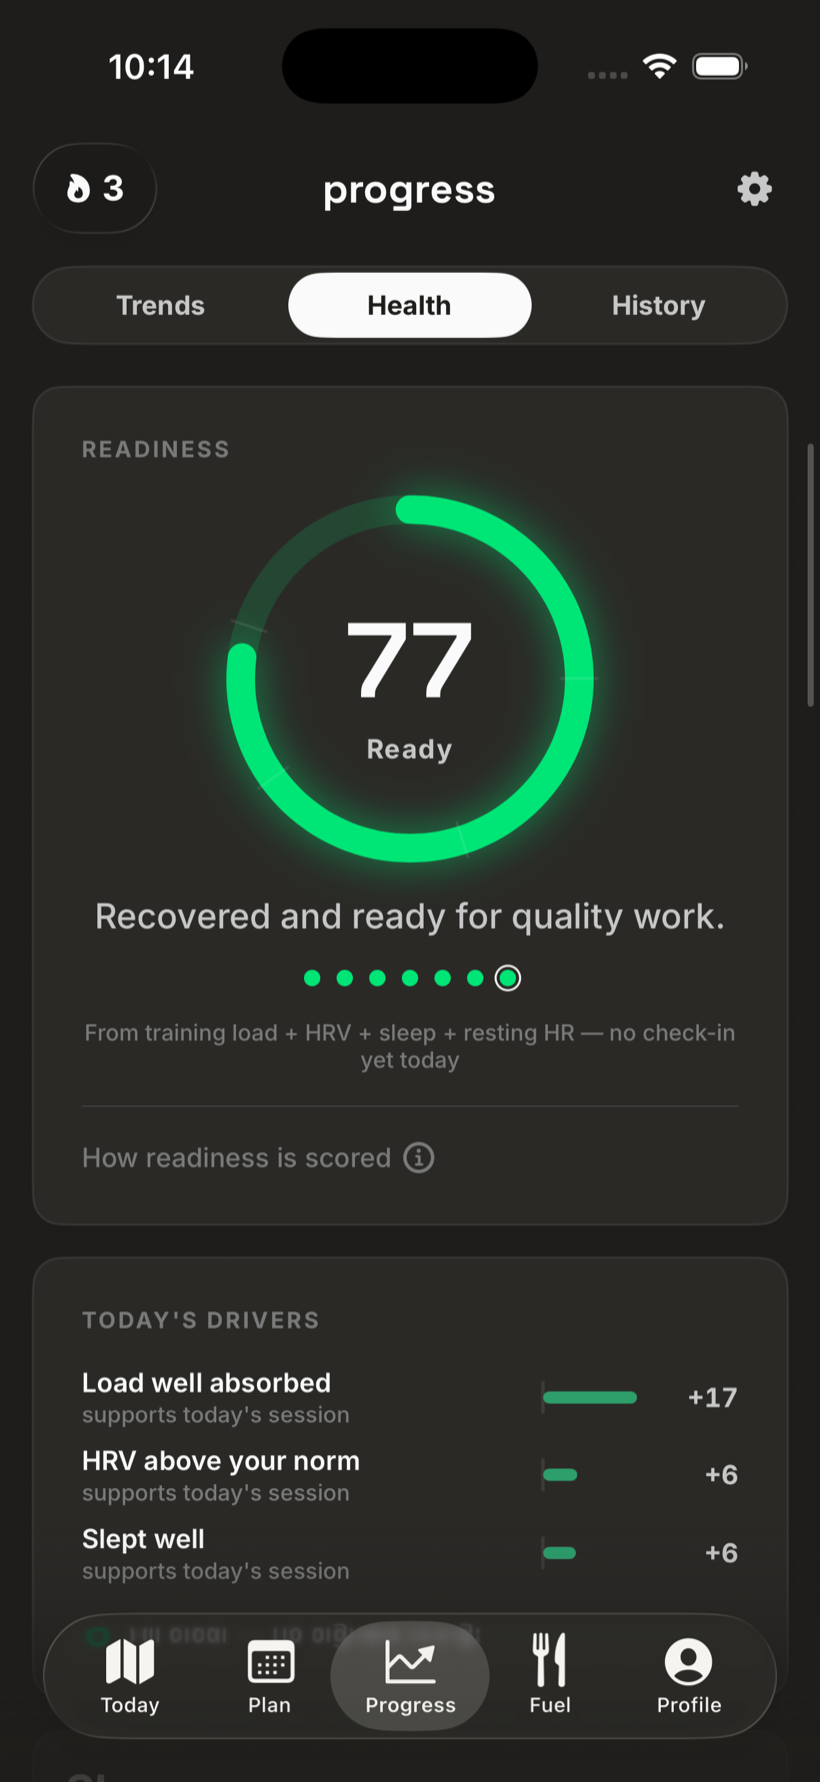
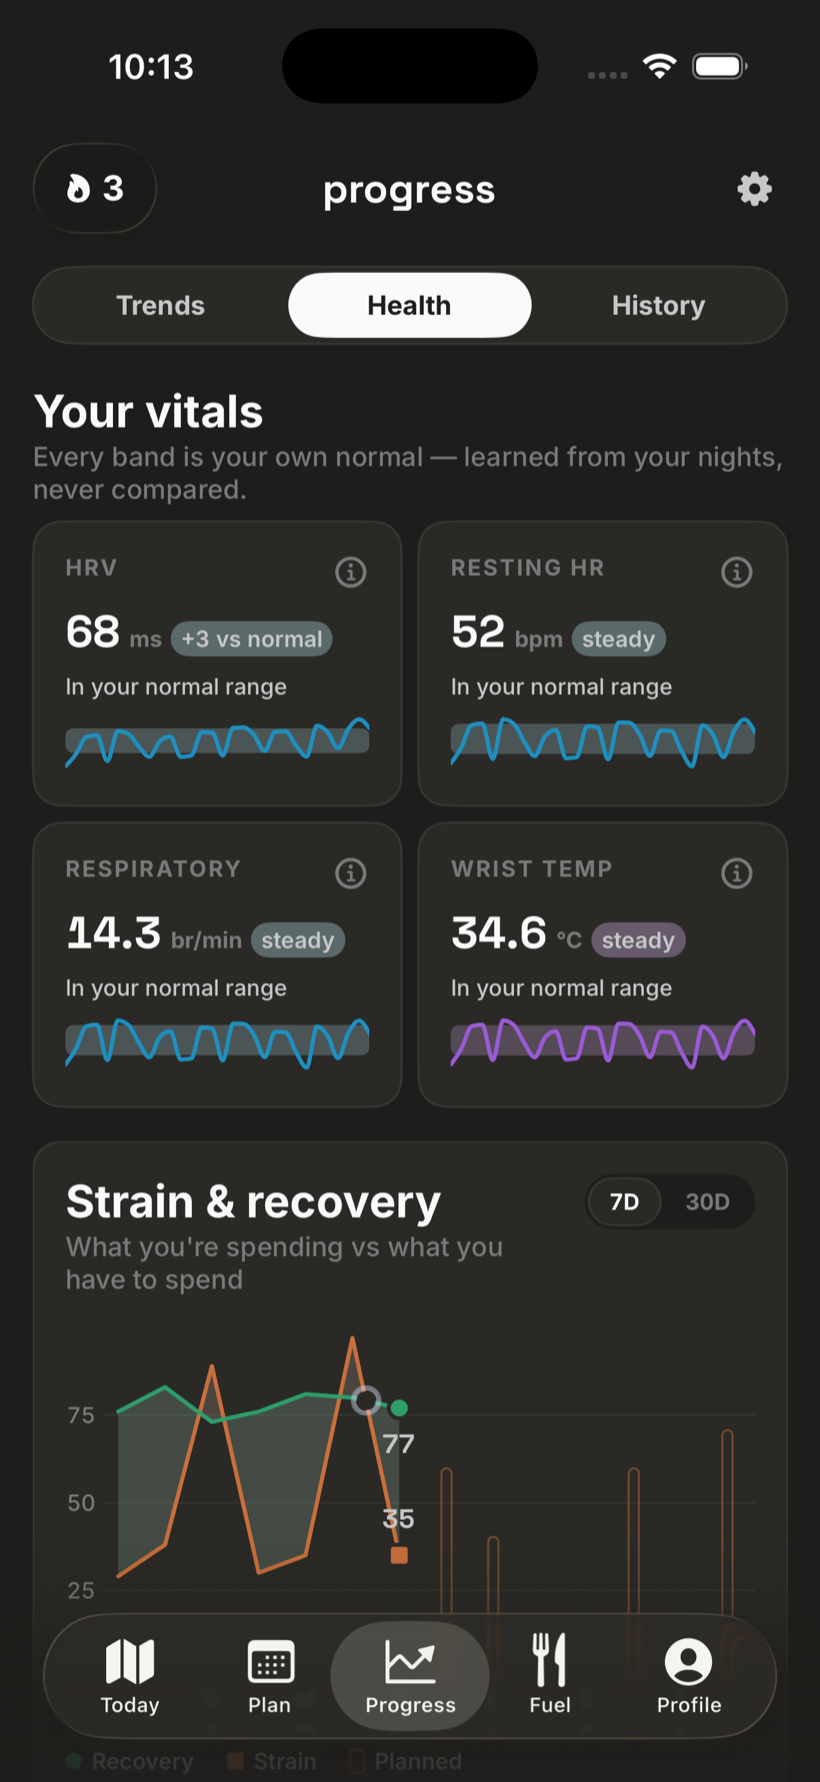
Website: add Fuel deep-dive + Vitals for "body measured"
- New "Fuel, not a diet" deep-dive section (fuel.png) showcasing the
  plain-language meal logging + carbs/protein/fat/sodium rings — floors
  to hit, never ceilings, RED-S-aware.
- Swap the "Your body, measured" shot to the Vitals screen (HRV / resting
  HR / respiratory / wrist temp), a tighter match to that section's copy.
- Regenerated blur placeholders.

diff --git a/website/components/blur.ts b/website/components/blur.ts
@@ -3,6 +3,7 @@
 // Regenerate when shots change (see the PIL snippet in the momentum-website memory).
 export const shotBlur: Record<string, string> = {
[5 lines of base64/hex data omitted]
@@ -10,7 +11,7 @@ export const shotBlur: Record<string, string> = {
[8 lines of base64/hex data omitted]

diff --git a/website/app/page.tsx b/website/app/page.tsx
@@ -262,7 +262,7 @@ function DeepDives() {
 
         <div className="duo flip">
           <div className="duo-media">
-            <PhoneFrame small src="/shots/progress.png" alt="Progress trends: estimated VO2 max gauge and personalized heart-rate zones" />
+            <PhoneFrame small src="/shots/progress.png" alt="Your vitals: HRV, resting heart rate, respiratory rate, and wrist temperature, each within your personal normal range" />
           </div>
           <div>
             <p className="eyebrow">Your body, measured</p>
@@ -314,6 +314,35 @@ function DeepDives() {
           </div>
           <div className="duo-media">
             <PhoneFrame small src="/shots/heatmap-dark.png" alt="Personal heatmap tracing running routes across a dark city map" />
+          </div>
+        </div>
+
+        <div className="duo flip">
+          <div className="duo-media">
+            <PhoneFrame small src="/shots/fuel.png" alt="Fuel dashboard: daily calories with carbs, protein, fat, and sodium rings and a plain-language meal log" />
+          </div>
+          <div>
+            <p className="eyebrow">Fuel, not a diet</p>
+            <h3>Eat to train — floors to hit, never numbers to fear.</h3>
+            <p>
+              Tell momentum what you ate in a sentence and it reads the carbs, protein, fat, and
+              sodium — then shows what today&apos;s training actually asks for. More carbs on a
+              long-run day, always fueling, never dieting.
+            </p>
+            <ul>
+              <li>
+                <span className="tick" aria-hidden />
+                Log a meal in plain words — no barcodes, no weighing
+              </li>
+              <li>
+                <span className="tick" aria-hidden />
+                Targets that move with your plan, not a one-size calorie cap
+              </li>
+              <li>
+                <span className="tick" aria-hidden />
+                Floors to hit, never ceilings to fear — with a RED-S-aware guard
+              </li>
+            </ul>
           </div>
         </div>
       </div>
